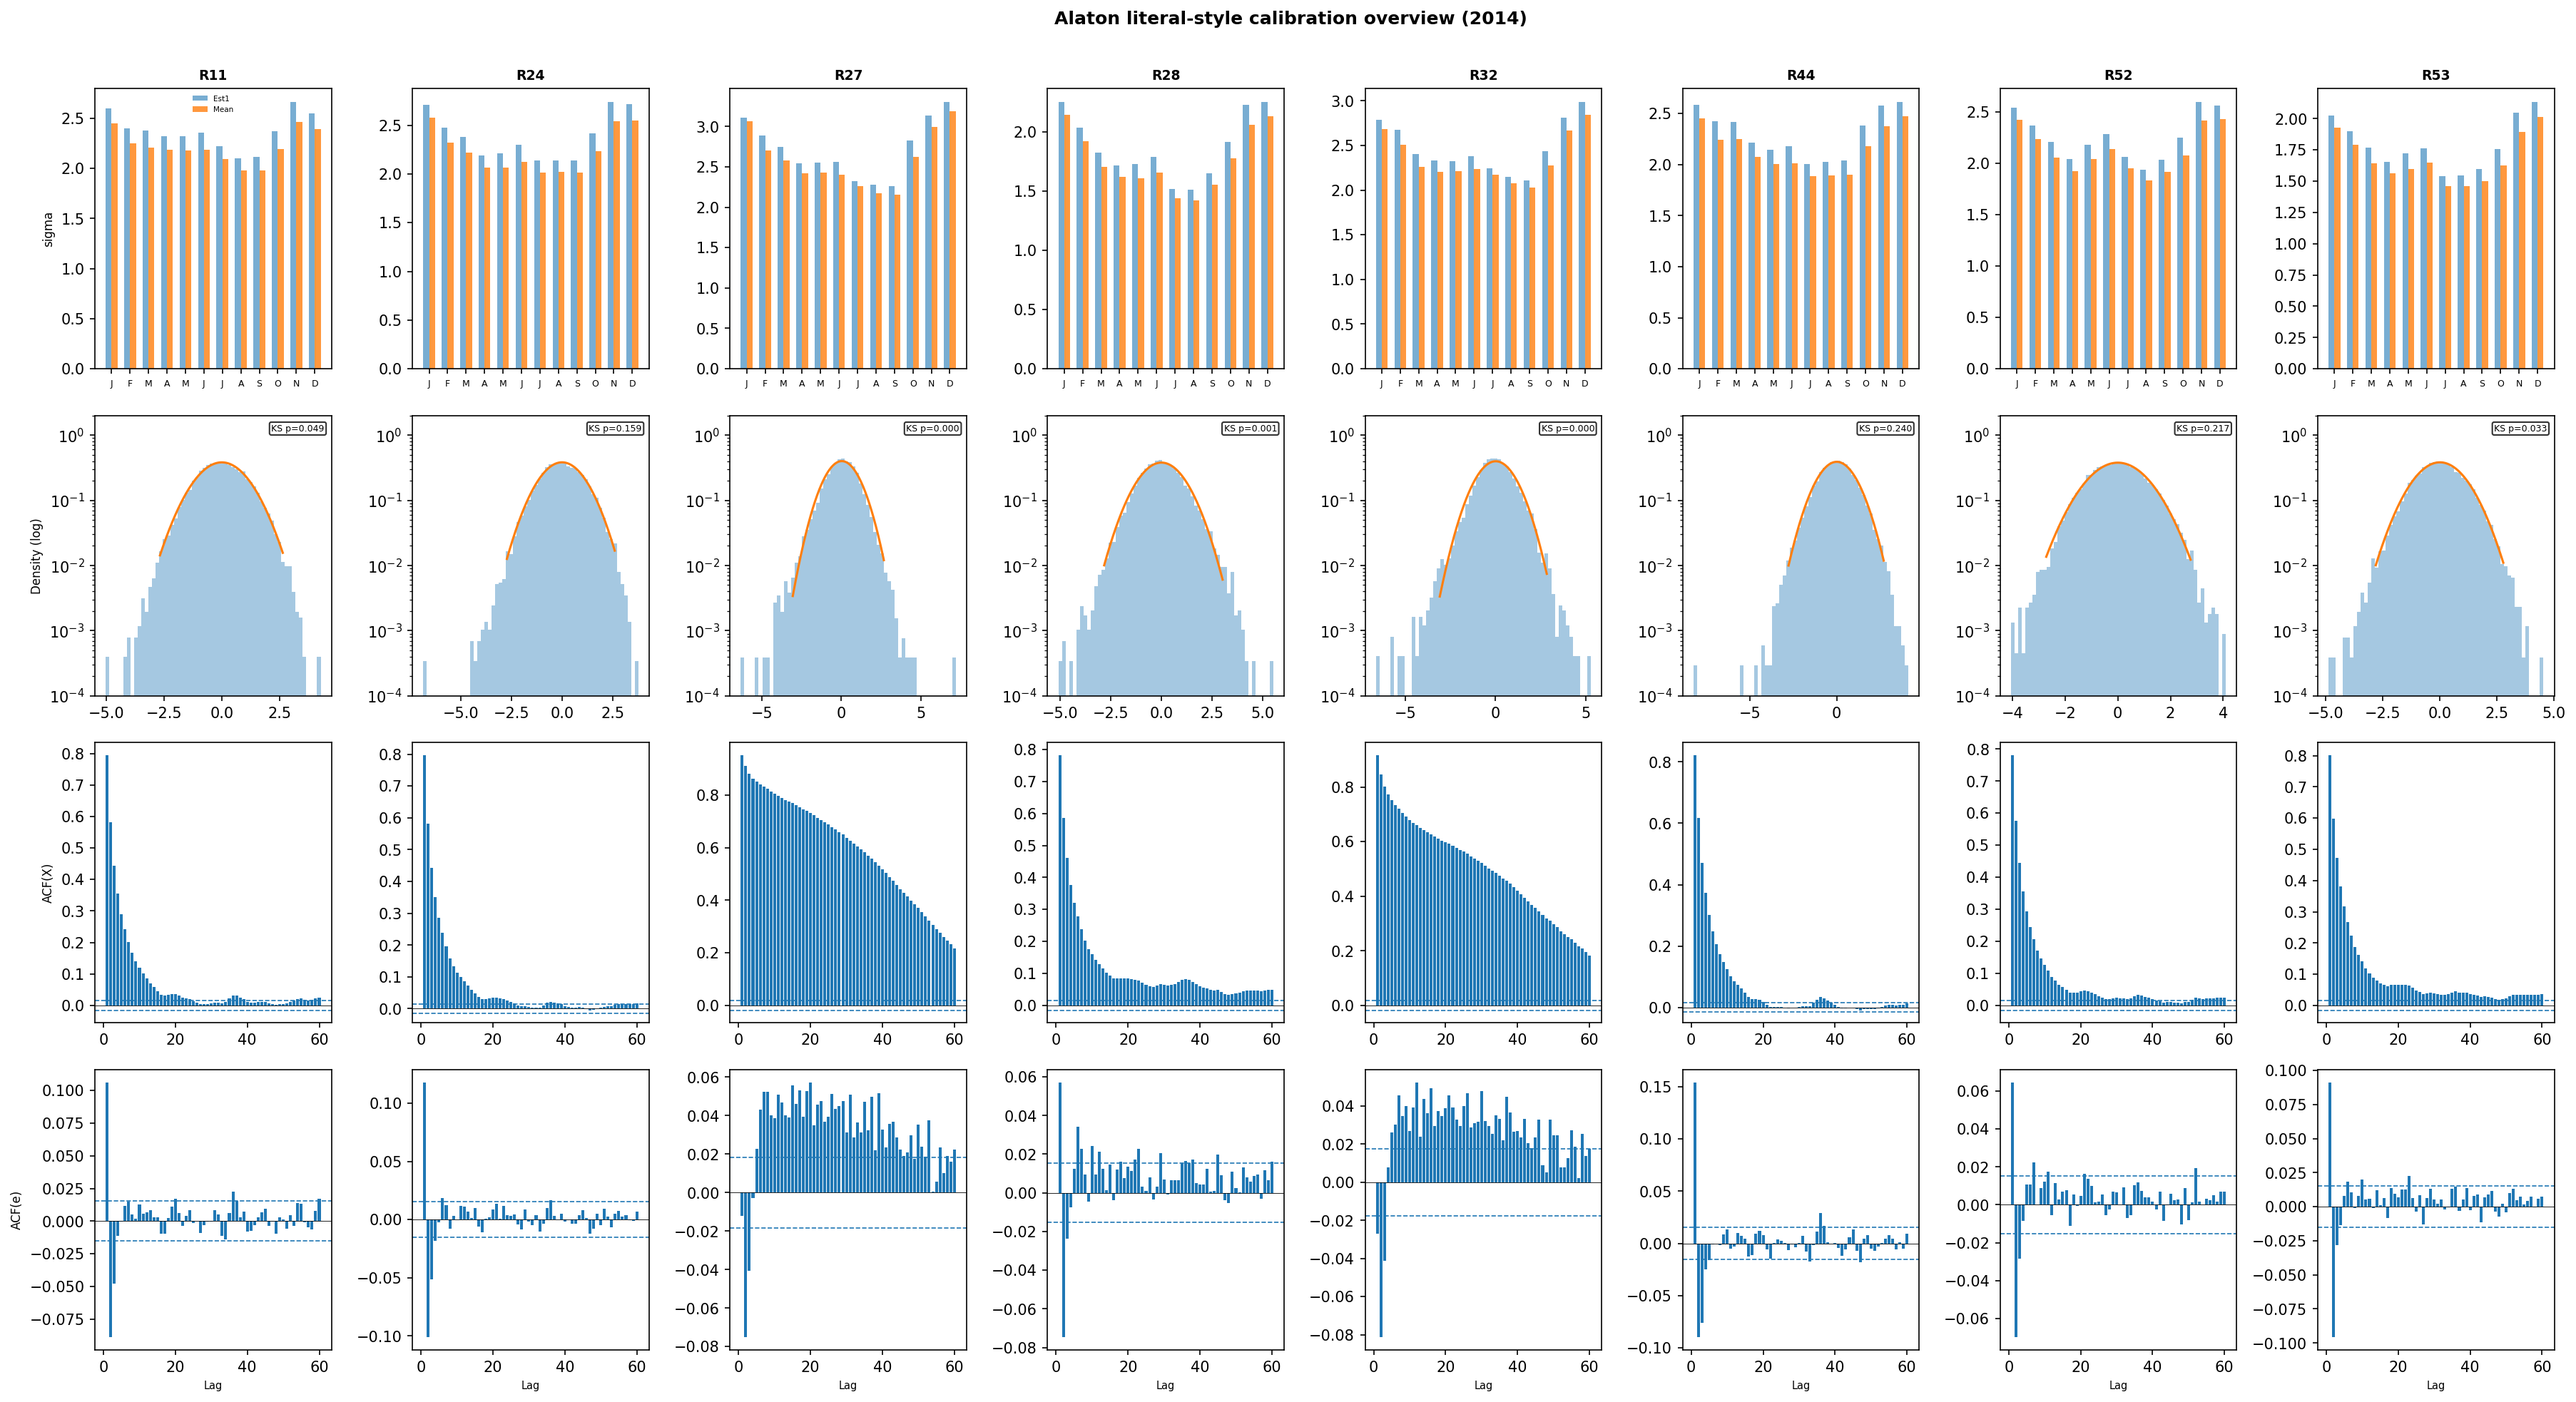
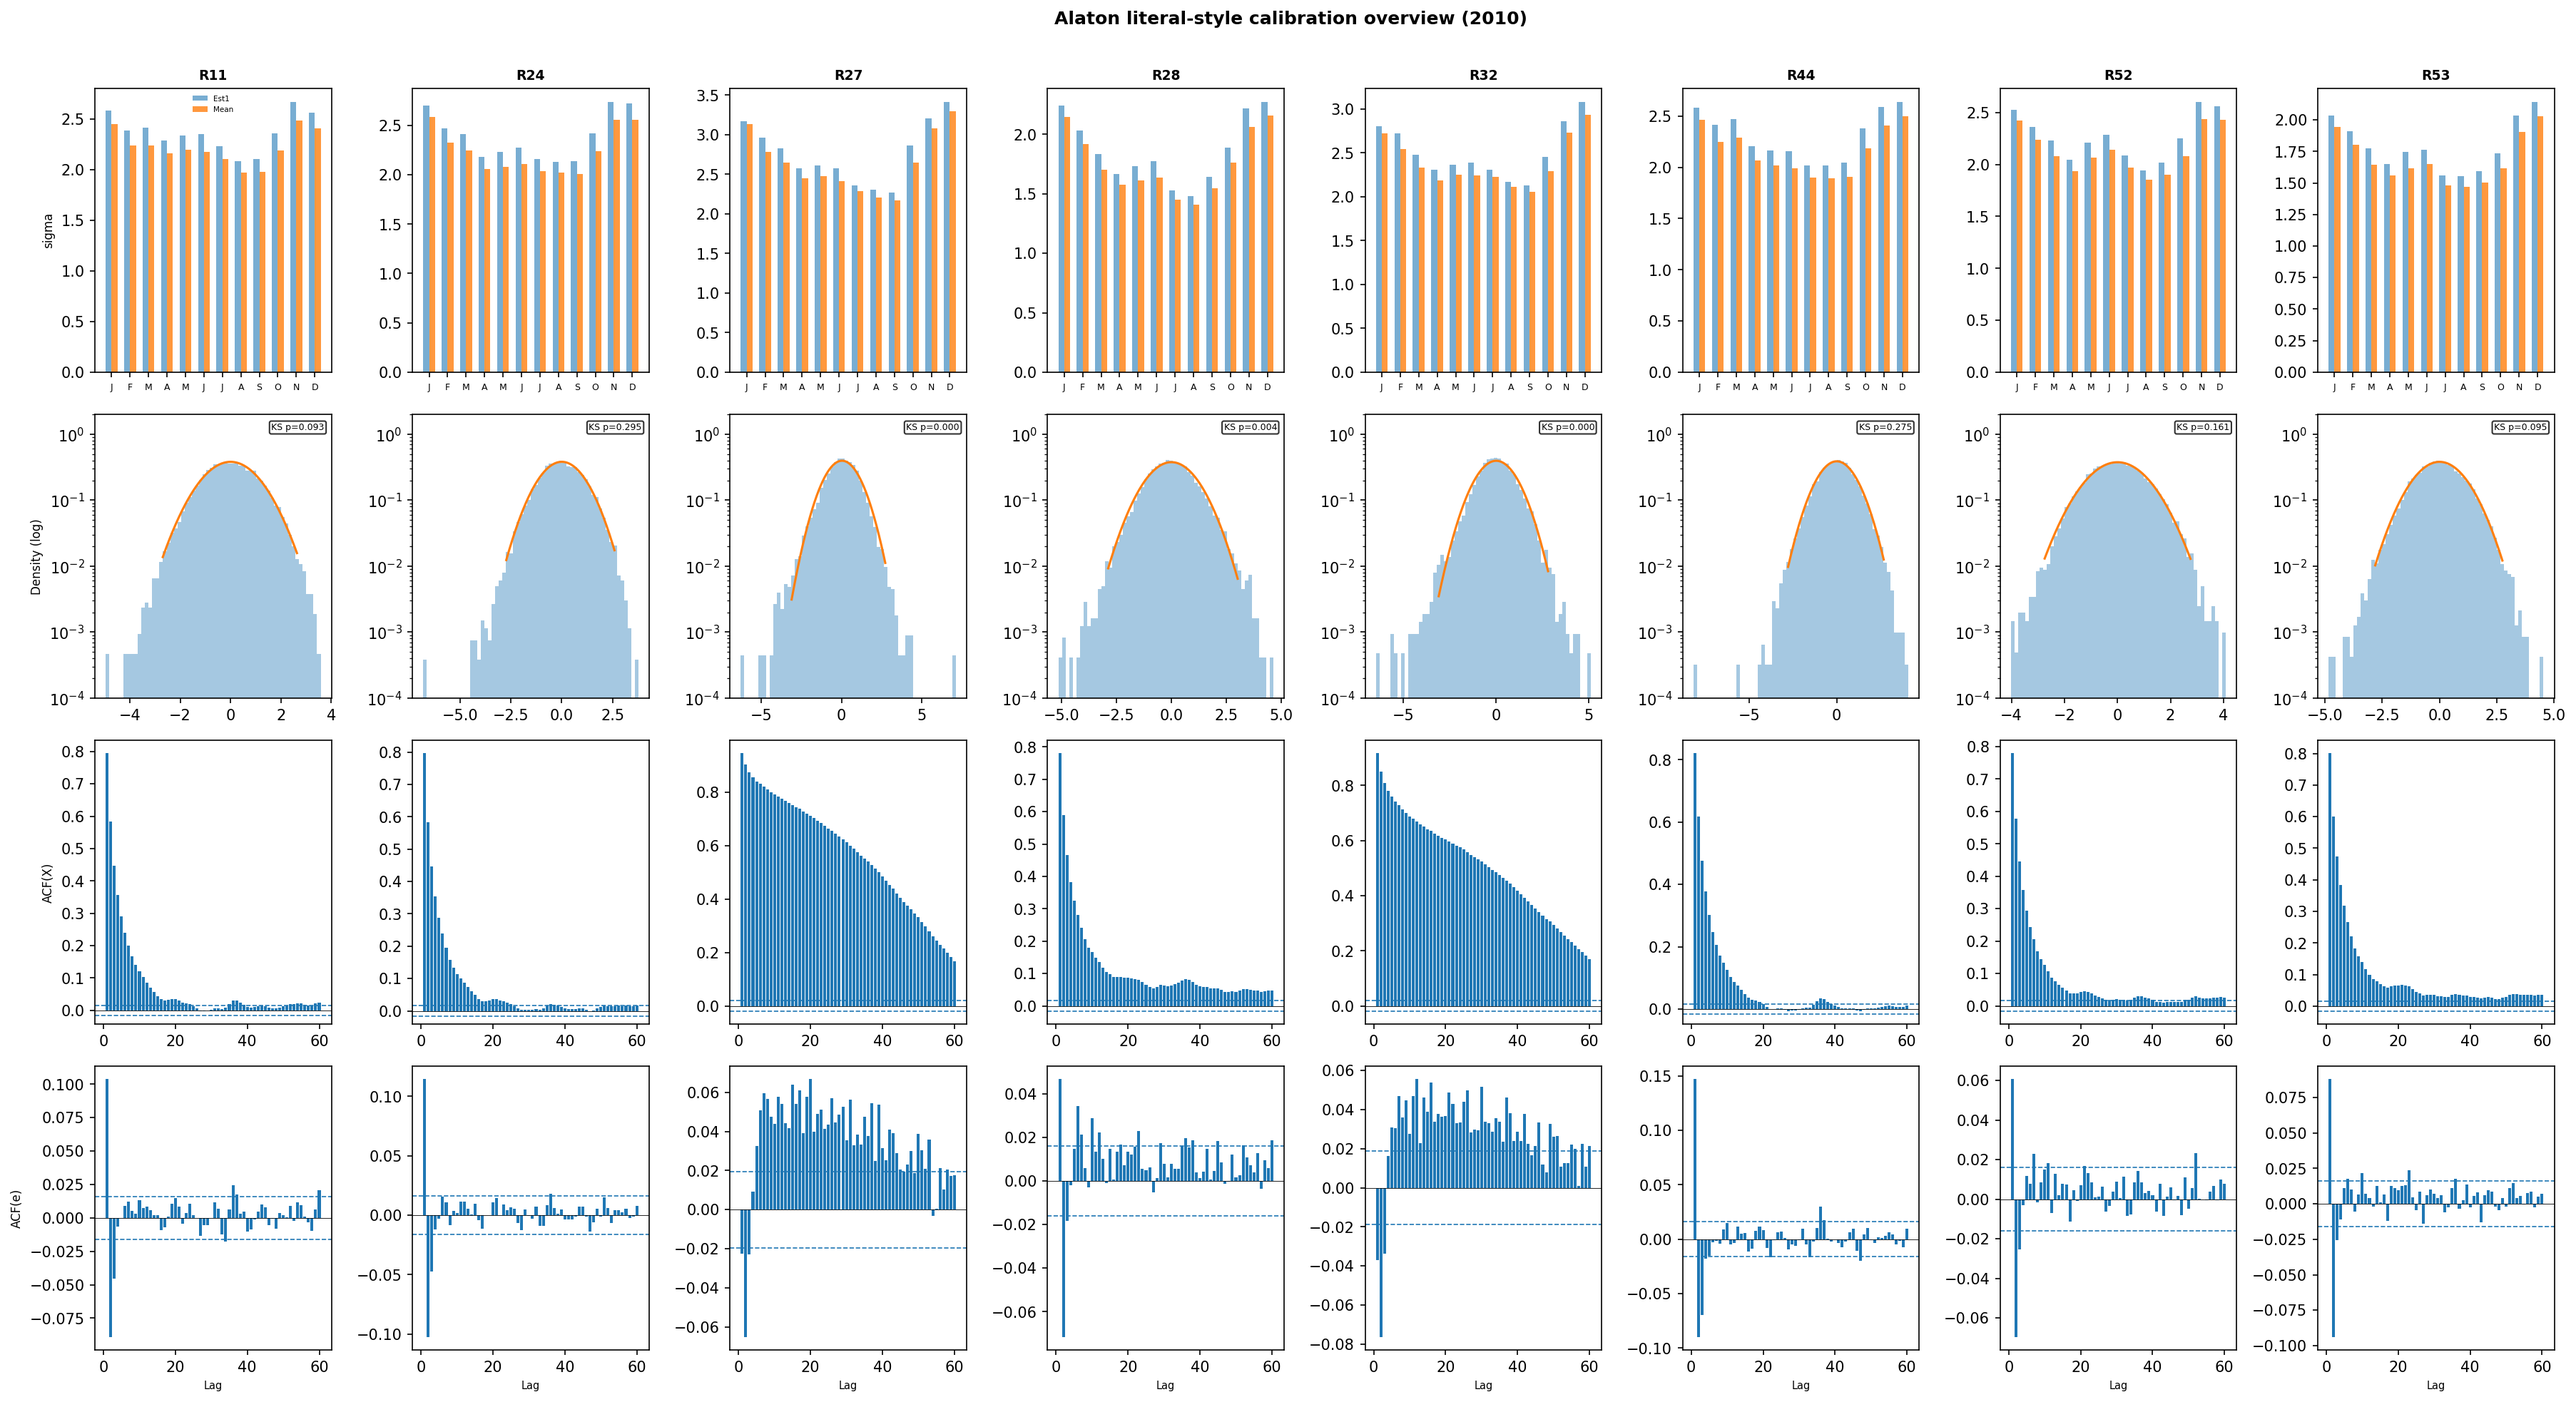
updated calib years

diff --git a/OU/hba_rolling_export.py b/OU/hba_rolling_export.py
@@ -30,9 +30,9 @@ warnings.filterwarnings("ignore")
 np.random.seed(42)
 
 REGIONS      = [11, 24, 27, 28, 32, 44, 52, 53]
-CALIB_YEARS  = range(2014, 2024)
-DIAG_YEAR    = 2014
-PKL_FOLDER   = "Output/hba_models"
+CALIB_YEARS  = range(2010, 2024)
+DIAG_YEAR    = 2010
+PKL_FOLDER   = "Outputs/hba_models"
 os.makedirs(PKL_FOLDER, exist_ok=True)
 
 T_REF = 18.0

diff --git a/OU/alaton_literal_export_close_fixed.py b/OU/alaton_literal_export_close_fixed.py
@@ -60,7 +60,7 @@ start = datetime.datetime.now()
 
 # configuration
 REGIONS = [11, 24, 27, 28, 32, 44, 52, 53]
-CALIB_YEARS = range(2014, 2024)
+CALIB_YEARS = range(2010, 2024)
 MIN_CALIB_OBS = 1000
 MAX_LAG = 60
 

diff --git a/OU/benth_literal_export.py b/OU/benth_literal_export.py
@@ -68,7 +68,7 @@ start = datetime.datetime.now()
 
 # configuration
 REGIONS = [11, 24, 27, 28, 32, 44, 52, 53]
-CALIB_YEARS = range(2014, 2024)
+CALIB_YEARS = range(2010, 2024)
 MIN_CALIB_OBS = 1000
 MAX_LAG = 60
 
